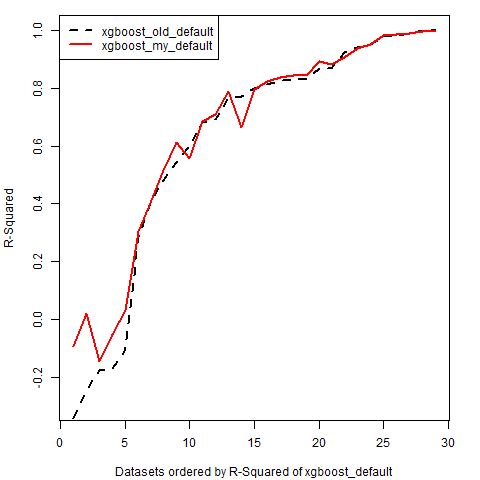
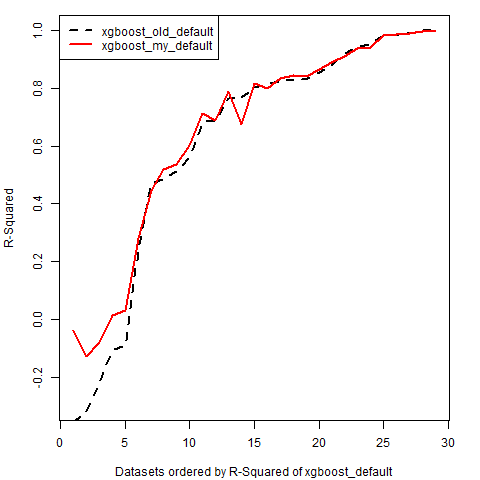
update results

diff --git a/_posts/2020-2-26-xgboost_defaults.md b/_posts/2020-2-26-xgboost_defaults.md
@@ -12,7 +12,7 @@ In one of my [publications](http://www.jmlr.org/papers/volume20/18-444/18-444.pd
 and one of the packages that I used there was **xgboost**. The results provided a default with 
 the parameter *nrounds*=4168, which leads to long runtimes. 
 
-Hence I wanted to use the data used in the paper to set *nrounds* to 500 and optimize the other 
+Hence, I wanted to use the data used in the paper to set *nrounds* to 500 and optimize the other 
 parameters to get optimal defaults. 
 
 <!--excerpt-->
@@ -31,10 +31,10 @@ I used the same method as mentioned in the paper with the 38 classification data
 
 Now I wanted to know how well this defaults perform on other tasks. So I took a collection of 29 regression tasks of different 
 domains, that I collected from different sources such as [OpenML](https://www.openml.org/) and compared my 
-defaults against the defaults of **xgboost** with **nrounds**=500. Code can be seen [here](https://github.com/PhilippPro/OpenML-bench-regr/blob/master/R/benchmark_xgboost_500.R)
+defaults against the defaults of **xgboost** with **nrounds**=500. Code can be seen [here](https://github.com/PhilippPro/OpenML-bench-regr/blob/master/R/benchmark_xgboost_500.R).
 
 The results were not really mindblowing. Here you can see performance graphs for two different measures (R-Squared and Spearman's Rho) 
-using 5-fold CV:
+using 10 times repeated 5-fold CV:
 
 ![graphic](/images/xgboost_500_rsq_results.png "graphic")
 
@@ -47,10 +47,10 @@ The average values can be seen in the following table:
 
 |             |--xgboost_old_default|--xgboost_my_default|
 |:------------|--------------------:|-------------------:|
-|R-squared    |                0.614|               0.645|
-|Spearman Rho |                0.775|               0.780|
+|R-squared    |                0.610|               0.645|
+|Spearman Rho |                0.775|               0.785|
 
-The percentage of datasets where my new defaults are better than the old defaults is 66% for R$^2$ and 62% for Spearman's Rho. 
+The percentage of datasets where my new defaults are better than the old defaults is 66% for R$^2$ and 75% for Spearman's Rho. 
 
 So all in all my new defaults do not provide a very big performance gain (on average 0.03 or R$^2$), but seem to be better 
 than the package defaults. 
